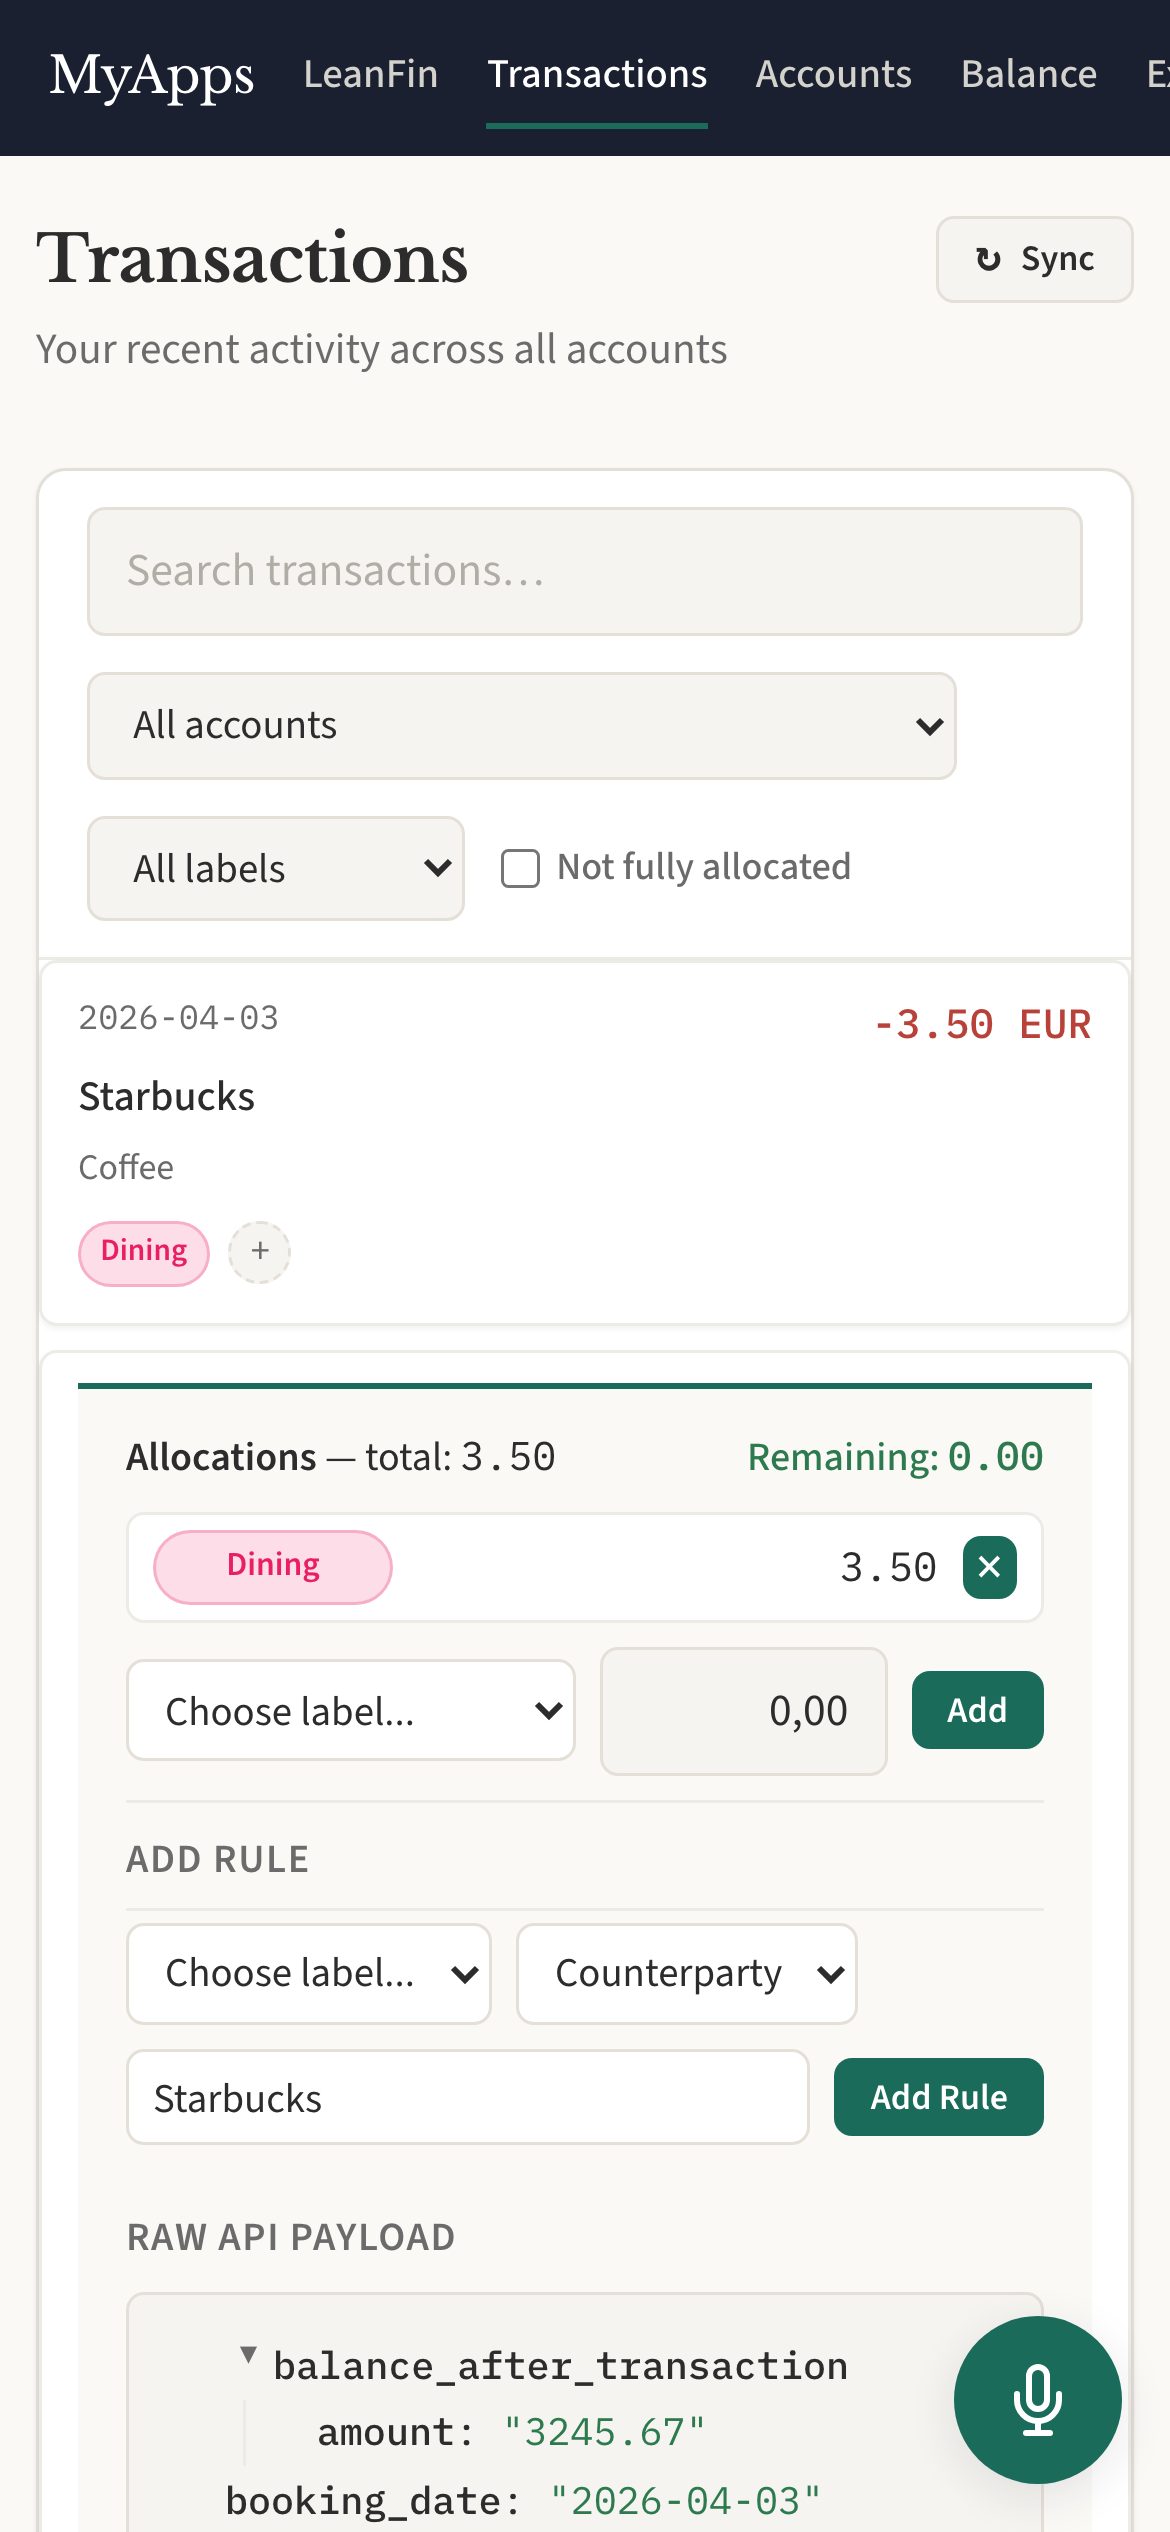
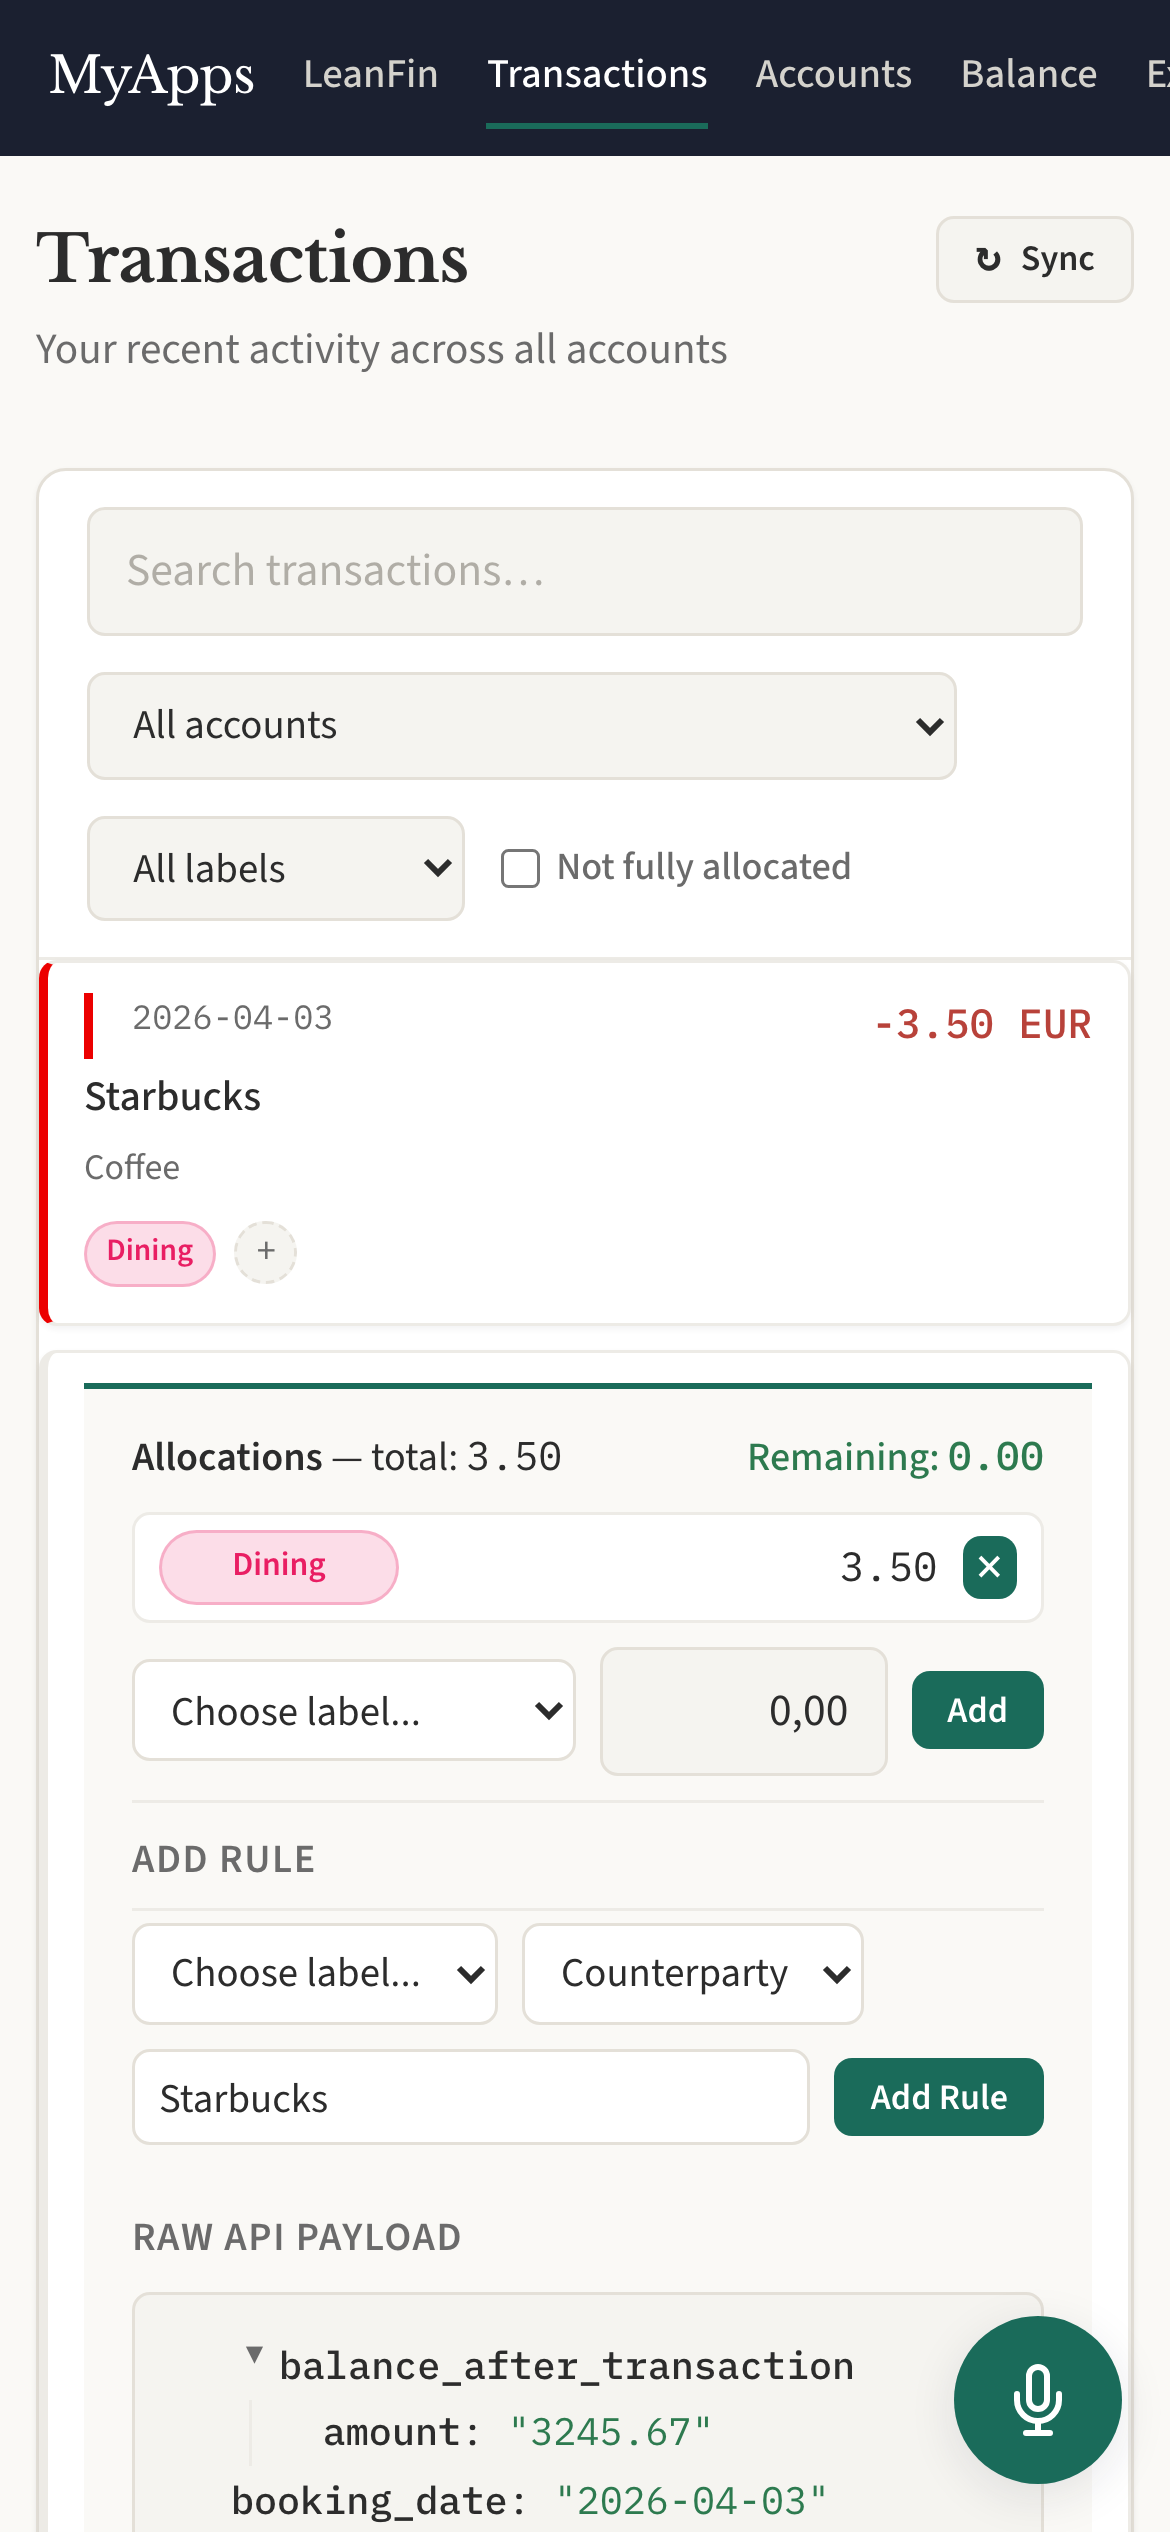
Add frontend tests and screenshots for account coloring

diff --git a/crates/myapps-leanfin/tests/leanfin/transactions.rs b/crates/myapps-leanfin/tests/leanfin/transactions.rs
@@ -901,3 +901,102 @@ async fn alloc_editor_shows_min_amount_positive_for_nonzero_transaction() {
         "min amount should be 0.01 for non-zero transactions"
     );
 }
+
+// ── Account color on transaction rows ───────────────────────
+
+#[tokio::test]
+async fn transaction_row_includes_account_color_style() {
+    let app = myapps_test_harness::spawn_app(vec![Box::new(myapps_leanfin::LeanFinApp)]).await;
+    app.seed_and_login(&myapps_leanfin::LeanFinApp).await;
+
+    // Set a color on Santander account
+    sqlx::query("UPDATE leanfin_accounts SET color = '#e74c3c' WHERE bank_name = 'Santander'")
+        .execute(&app.pool)
+        .await
+        .unwrap();
+
+    let response = app.server.get("/leanfin/transactions").await;
+    let body = response.text();
+    assert!(
+        body.contains("--account-color:#e74c3c"),
+        "transaction rows should include --account-color CSS variable from account"
+    );
+}
+
+#[tokio::test]
+async fn transaction_row_omits_color_style_when_no_account_color() {
+    let app = myapps_test_harness::spawn_app(vec![Box::new(myapps_leanfin::LeanFinApp)]).await;
+    app.seed_and_login(&myapps_leanfin::LeanFinApp).await;
+
+    // Ensure no accounts have a color set
+    sqlx::query("UPDATE leanfin_accounts SET color = NULL")
+        .execute(&app.pool)
+        .await
+        .unwrap();
+
+    let response = app.server.get("/leanfin/transactions").await;
+    let body = response.text();
+    assert!(
+        !body.contains("--account-color"),
+        "transaction rows should not include --account-color when account has no color"
+    );
+}
+
+#[tokio::test]
+async fn transaction_row_has_unallocated_class() {
+    let app = myapps_test_harness::spawn_app(vec![Box::new(myapps_leanfin::LeanFinApp)]).await;
+    app.seed_and_login(&myapps_leanfin::LeanFinApp).await;
+
+    // Ensure at least one transaction is unallocated
+    let (txn_id,): (i64,) = sqlx::query_as("SELECT id FROM leanfin_transactions LIMIT 1")
+        .fetch_one(&app.pool)
+        .await
+        .unwrap();
+    sqlx::query("DELETE FROM leanfin_allocations WHERE transaction_id = ?")
+        .bind(txn_id)
+        .execute(&app.pool)
+        .await
+        .unwrap();
+
+    let response = app.server.get("/leanfin/transactions").await;
+    let body = response.text();
+    assert!(
+        body.contains("txn-unallocated"),
+        "unallocated transactions should have txn-unallocated class"
+    );
+}
+
+#[tokio::test]
+async fn single_transaction_row_refresh_includes_account_color() {
+    let app = myapps_test_harness::spawn_app(vec![Box::new(myapps_leanfin::LeanFinApp)]).await;
+    app.seed_and_login(&myapps_leanfin::LeanFinApp).await;
+
+    // Set color on an account and get a transaction from it
+    let (account_id,): (i64,) =
+        sqlx::query_as("SELECT id FROM leanfin_accounts WHERE bank_name = 'Santander'")
+            .fetch_one(&app.pool)
+            .await
+            .unwrap();
+    sqlx::query("UPDATE leanfin_accounts SET color = '#2ecc71' WHERE id = ?")
+        .bind(account_id)
+        .execute(&app.pool)
+        .await
+        .unwrap();
+
+    let (txn_id,): (i64,) =
+        sqlx::query_as("SELECT id FROM leanfin_transactions WHERE account_id = ? LIMIT 1")
+            .bind(account_id)
+            .fetch_one(&app.pool)
+            .await
+            .unwrap();
+
+    let response = app
+        .server
+        .get(&format!("/leanfin/transactions/{txn_id}/row"))
+        .await;
+    let body = response.text();
+    assert!(
+        body.contains("--account-color:#2ecc71"),
+        "single row refresh should include --account-color CSS variable"
+    );
+}

diff --git a/crates/myapps-leanfin/tests/leanfin/accounts.rs b/crates/myapps-leanfin/tests/leanfin/accounts.rs
@@ -319,6 +319,76 @@ async fn archived_account_not_synced() {
     );
 }
 
+// ── Account coloring tests ──────────────────────────────────────
+
+#[tokio::test]
+async fn update_account_color_persists() {
+    let app = myapps_test_harness::spawn_app(vec![Box::new(myapps_leanfin::LeanFinApp)]).await;
+    app.seed_and_login(&myapps_leanfin::LeanFinApp).await;
+
+    let (account_id,): (i64,) =
+        sqlx::query_as("SELECT id FROM leanfin_accounts WHERE bank_name = 'Santander'")
+            .fetch_one(&app.pool)
+            .await
+            .unwrap();
+
+    let response = app
+        .server
+        .post(&format!("/leanfin/accounts/{account_id}/color"))
+        .form(&serde_json::json!({"color": "#ff5733"}))
+        .await;
+    assert_eq!(response.status_code(), 200);
+
+    // Verify the color was persisted in the database
+    let (color,): (Option<String>,) =
+        sqlx::query_as("SELECT color FROM leanfin_accounts WHERE id = ?")
+            .bind(account_id)
+            .fetch_one(&app.pool)
+            .await
+            .unwrap();
+    assert_eq!(color.as_deref(), Some("#ff5733"));
+}
+
+#[tokio::test]
+async fn accounts_page_shows_color_stripe_and_picker() {
+    let app = myapps_test_harness::spawn_app(vec![Box::new(myapps_leanfin::LeanFinApp)]).await;
+    app.seed_and_login(&myapps_leanfin::LeanFinApp).await;
+
+    let response = app.server.get("/leanfin/accounts").await;
+    let body = response.text();
+    assert!(
+        body.contains("account-color-stripe"),
+        "missing account-color-stripe element"
+    );
+    assert!(
+        body.contains("account-color-picker"),
+        "missing account-color-picker element"
+    );
+}
+
+#[tokio::test]
+async fn accounts_page_shows_custom_color_in_style() {
+    let app = myapps_test_harness::spawn_app(vec![Box::new(myapps_leanfin::LeanFinApp)]).await;
+    app.seed_and_login(&myapps_leanfin::LeanFinApp).await;
+
+    // Set a specific color on an account
+    sqlx::query("UPDATE leanfin_accounts SET color = '#abcdef' WHERE bank_name = 'Santander'")
+        .execute(&app.pool)
+        .await
+        .unwrap();
+
+    let response = app.server.get("/leanfin/accounts").await;
+    let body = response.text();
+    assert!(
+        body.contains("--account-color:#abcdef"),
+        "account item should include --account-color CSS variable"
+    );
+    assert!(
+        body.contains(r##"value="#abcdef""##),
+        "color picker should have the account color as value"
+    );
+}
+
 // ── Existing tests ──────────────────────────────────────────────
 
 #[tokio::test]
